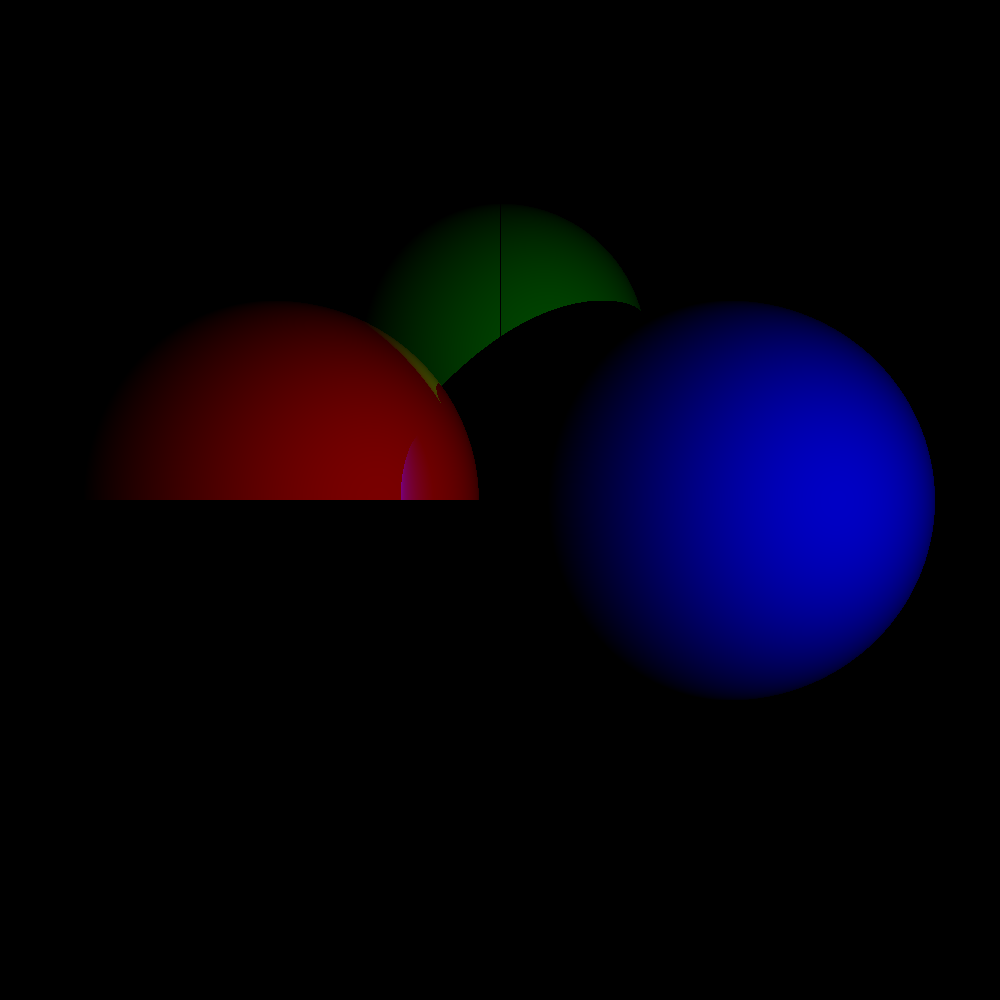
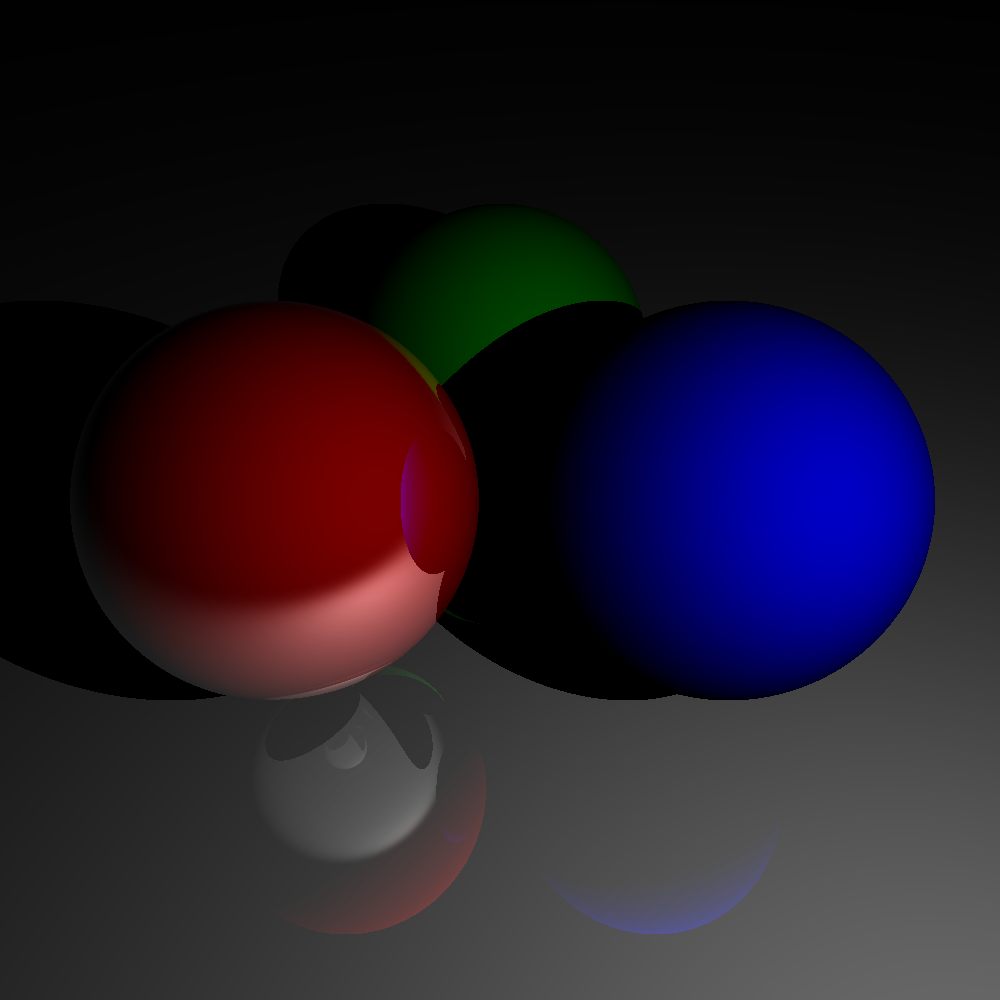
Add reflective floor

diff --git a/src/Main.java b/src/Main.java
@@ -15,6 +15,15 @@ public class Main {
 
         // Create a scene
         Scene scene = new Scene();
+        
+        // Create a plane
+        scene.addMaterial(new Plane(
+        		new Vec3(0, 1, 1),
+        		3f,
+        		new Color(255, 255, 255),
+        		0.5f,
+        		0f
+        ));
 
         // Create a sphere
         scene.addMaterial(new Sphere(
